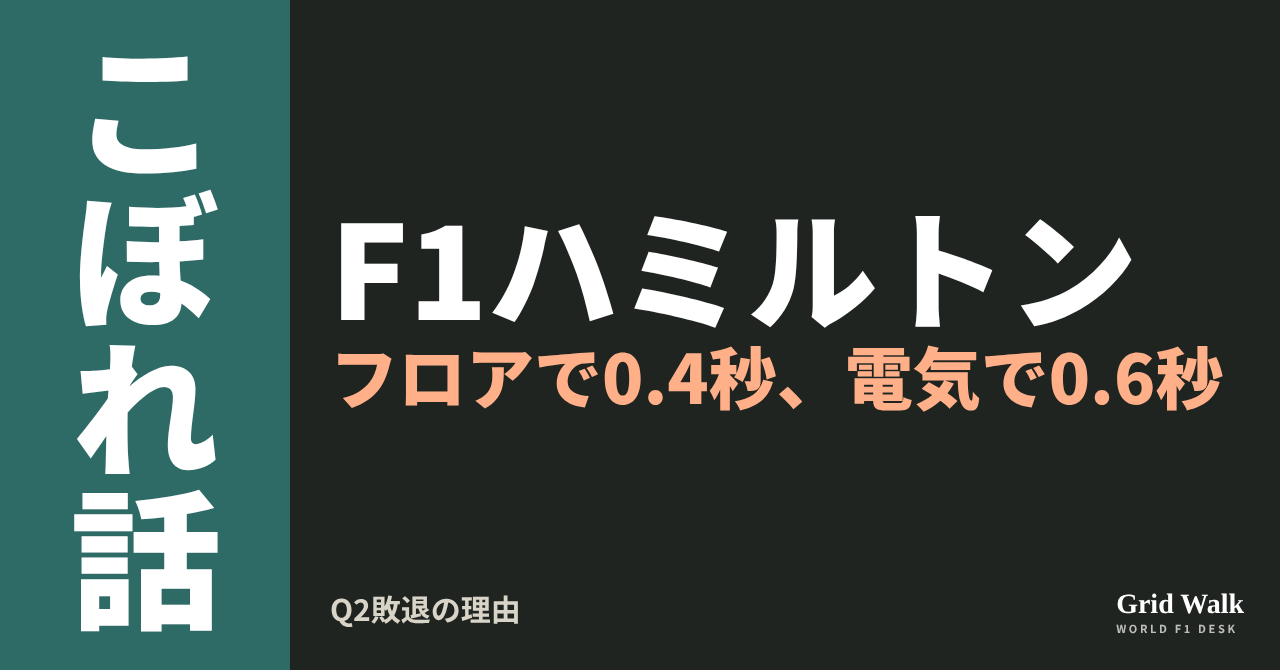
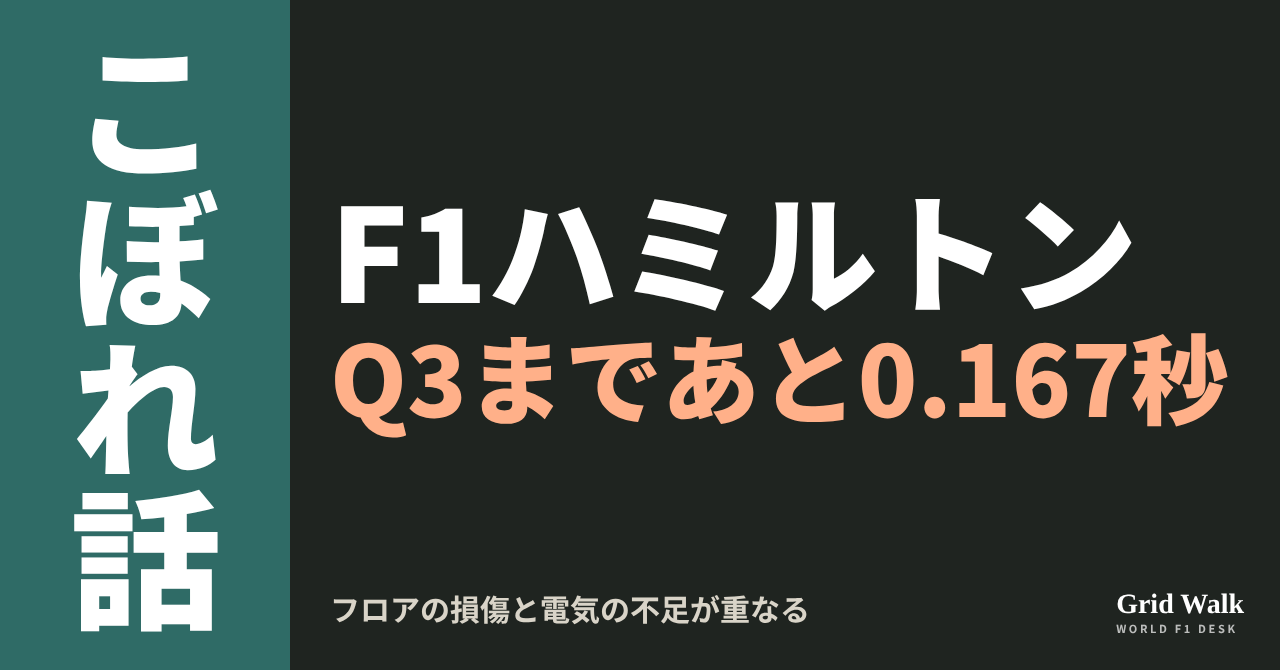
desk: image options 1122 fixes
Claude-Session: https://claude.ai/code/session_01LGMvzb8B3aK7DkzCCi7qDe

diff --git a/desk/pending/1122/R1.html b/desk/pending/1122/R1.html
@@ -11,7 +11,7 @@ em{font-style:normal;color:#FFB089}
 .br{position:absolute;right:36px;bottom:34px;font:700 28px Georgia,serif}.br small{display:block;font:700 11px 'Noto Sans CJK JP';letter-spacing:.24em;opacity:.7}
 .row{display:flex;align-items:center;gap:28px;white-space:nowrap;font-weight:900}
 .row svg{flex:0 0 auto}
-</style><div class=c><div class=p><b>こぼれ話</b></div><div class=r><div class=l1>F1ラッセル</div><div class=l2><em>誰かがあの男に立ち向かわないと</em></div></div><div class=s>フェルスタッペンと最前列で隣どうし</div><div class=br>Grid Walk<small>WORLD F1 DESK</small></div></div>
+</style><div class=c><div class=p><b>こぼれ話</b></div><div class=r><div class=l1>F1ラッセル</div><div class=l2><em>誰かが、あの男に立ち向かわないと</em></div></div><div class=s>フェルスタッペンと最前列で隣どうし</div><div class=br>Grid Walk<small>WORLD F1 DESK</small></div></div>
 <script>
 document.querySelectorAll('.l1,.l2,.l3,.s,.row').forEach(el=>{let f=parseFloat(getComputedStyle(el).fontSize);while(el.scrollWidth>el.clientWidth+1&&f>20){f-=2;el.style.fontSize=f+'px'}});
 const r=document.querySelector('.r');let n=0;while(r.scrollHeight>r.clientHeight+1&&n++<80){document.querySelectorAll('.l1,.l2,.l3,.row').forEach(el=>{el.style.fontSize=(parseFloat(getComputedStyle(el).fontSize)-3)+'px'})}

diff --git a/desk/pending/1122/W1.html b/desk/pending/1122/W1.html
@@ -11,7 +11,7 @@ em{font-style:normal;color:#FFB089}
 .br{position:absolute;right:36px;bottom:34px;font:700 28px Georgia,serif}.br small{display:block;font:700 11px 'Noto Sans CJK JP';letter-spacing:.24em;opacity:.7}
 .row{display:flex;align-items:center;gap:28px;white-space:nowrap;font-weight:900}
 .row svg{flex:0 0 auto}
-</style><div class=c><div class=p><b>こぼれ話</b></div><div class=r><div class=l1>F1ウォルフ</div><div class=l2><em>35年で見たことがない</em></div></div><div class=s>アントネッリの予選最後の1周</div><div class=br>Grid Walk<small>WORLD F1 DESK</small></div></div>
+</style><div class=c><div class=p><b>こぼれ話</b></div><div class=r><div class=l1>F1ウォルフ</div><div class=l2><em>見たことがない</em></div></div><div class=s>モータースポーツに35年、予選最後の1周に</div><div class=br>Grid Walk<small>WORLD F1 DESK</small></div></div>
 <script>
 document.querySelectorAll('.l1,.l2,.l3,.s,.row').forEach(el=>{let f=parseFloat(getComputedStyle(el).fontSize);while(el.scrollWidth>el.clientWidth+1&&f>20){f-=2;el.style.fontSize=f+'px'}});
 const r=document.querySelector('.r');let n=0;while(r.scrollHeight>r.clientHeight+1&&n++<80){document.querySelectorAll('.l1,.l2,.l3,.row').forEach(el=>{el.style.fontSize=(parseFloat(getComputedStyle(el).fontSize)-3)+'px'})}

diff --git a/desk/pending/1122/H2.html b/desk/pending/1122/H2.html
@@ -11,7 +11,7 @@ em{font-style:normal;color:#FFB089}
 .br{position:absolute;right:36px;bottom:34px;font:700 28px Georgia,serif}.br small{display:block;font:700 11px 'Noto Sans CJK JP';letter-spacing:.24em;opacity:.7}
 .row{display:flex;align-items:center;gap:28px;white-space:nowrap;font-weight:900}
 .row svg{flex:0 0 auto}
-</style><div class=c><div class=p><b>こぼれ話</b></div><div class=r><div class=l1>F1ハミルトン</div><div class=l2><em>フロアで0.4秒、電気で0.6秒</em></div></div><div class=s>Q2敗退の理由</div><div class=br>Grid Walk<small>WORLD F1 DESK</small></div></div>
+</style><div class=c><div class=p><b>こぼれ話</b></div><div class=r><div class=l1>F1ハミルトン</div><div class=l2><em>Q3まであと0.167秒</em></div></div><div class=s>フロアの損傷と電気の不足が重なる</div><div class=br>Grid Walk<small>WORLD F1 DESK</small></div></div>
 <script>
 document.querySelectorAll('.l1,.l2,.l3,.s,.row').forEach(el=>{let f=parseFloat(getComputedStyle(el).fontSize);while(el.scrollWidth>el.clientWidth+1&&f>20){f-=2;el.style.fontSize=f+'px'}});
 const r=document.querySelector('.r');let n=0;while(r.scrollHeight>r.clientHeight+1&&n++<80){document.querySelectorAll('.l1,.l2,.l3,.row').forEach(el=>{el.style.fontSize=(parseFloat(getComputedStyle(el).fontSize)-3)+'px'})}
